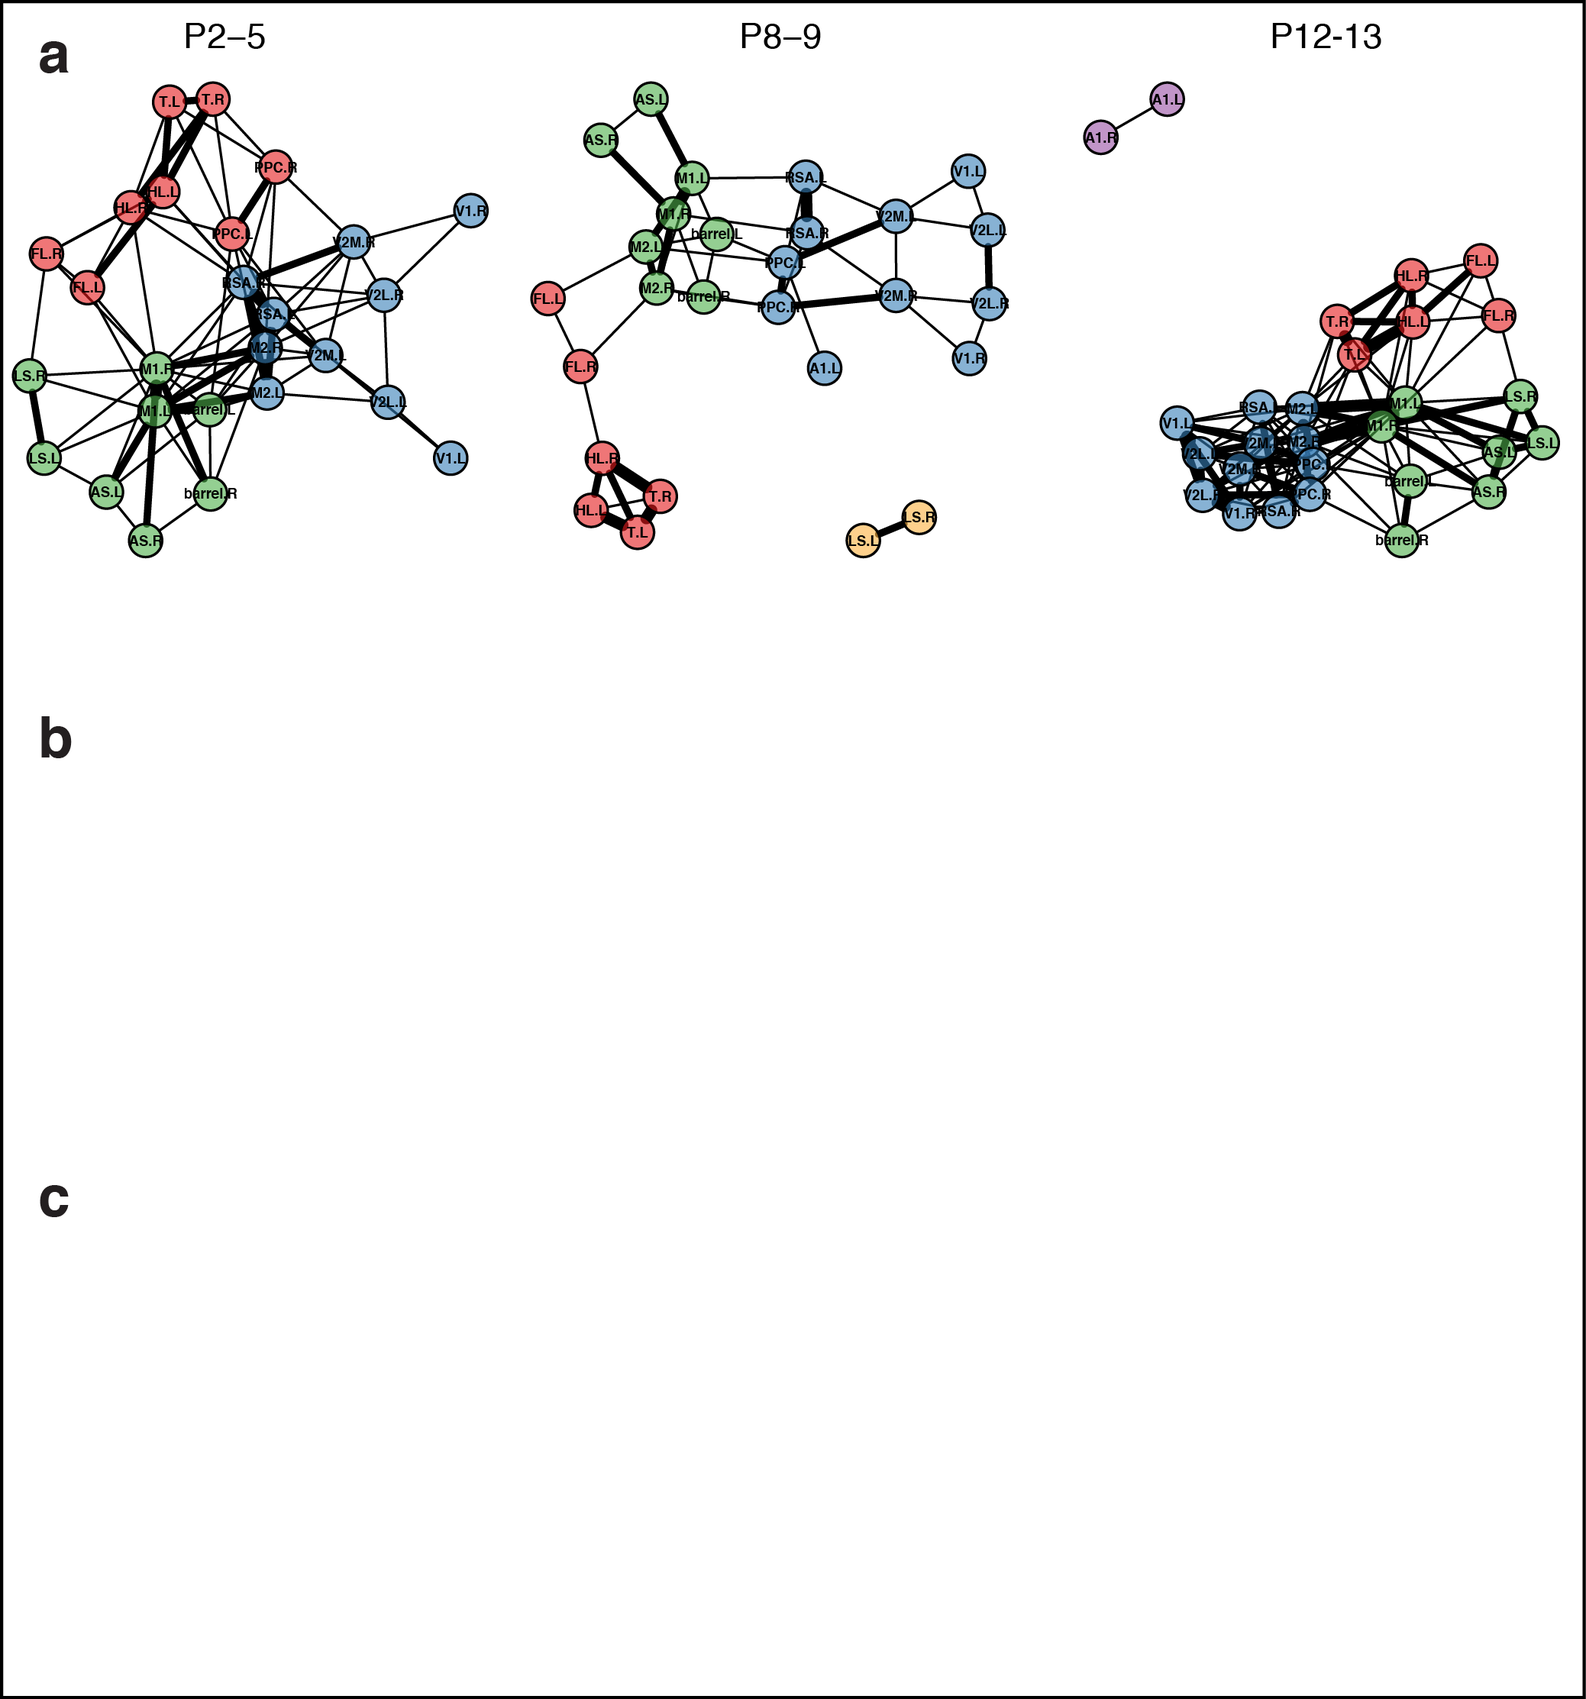
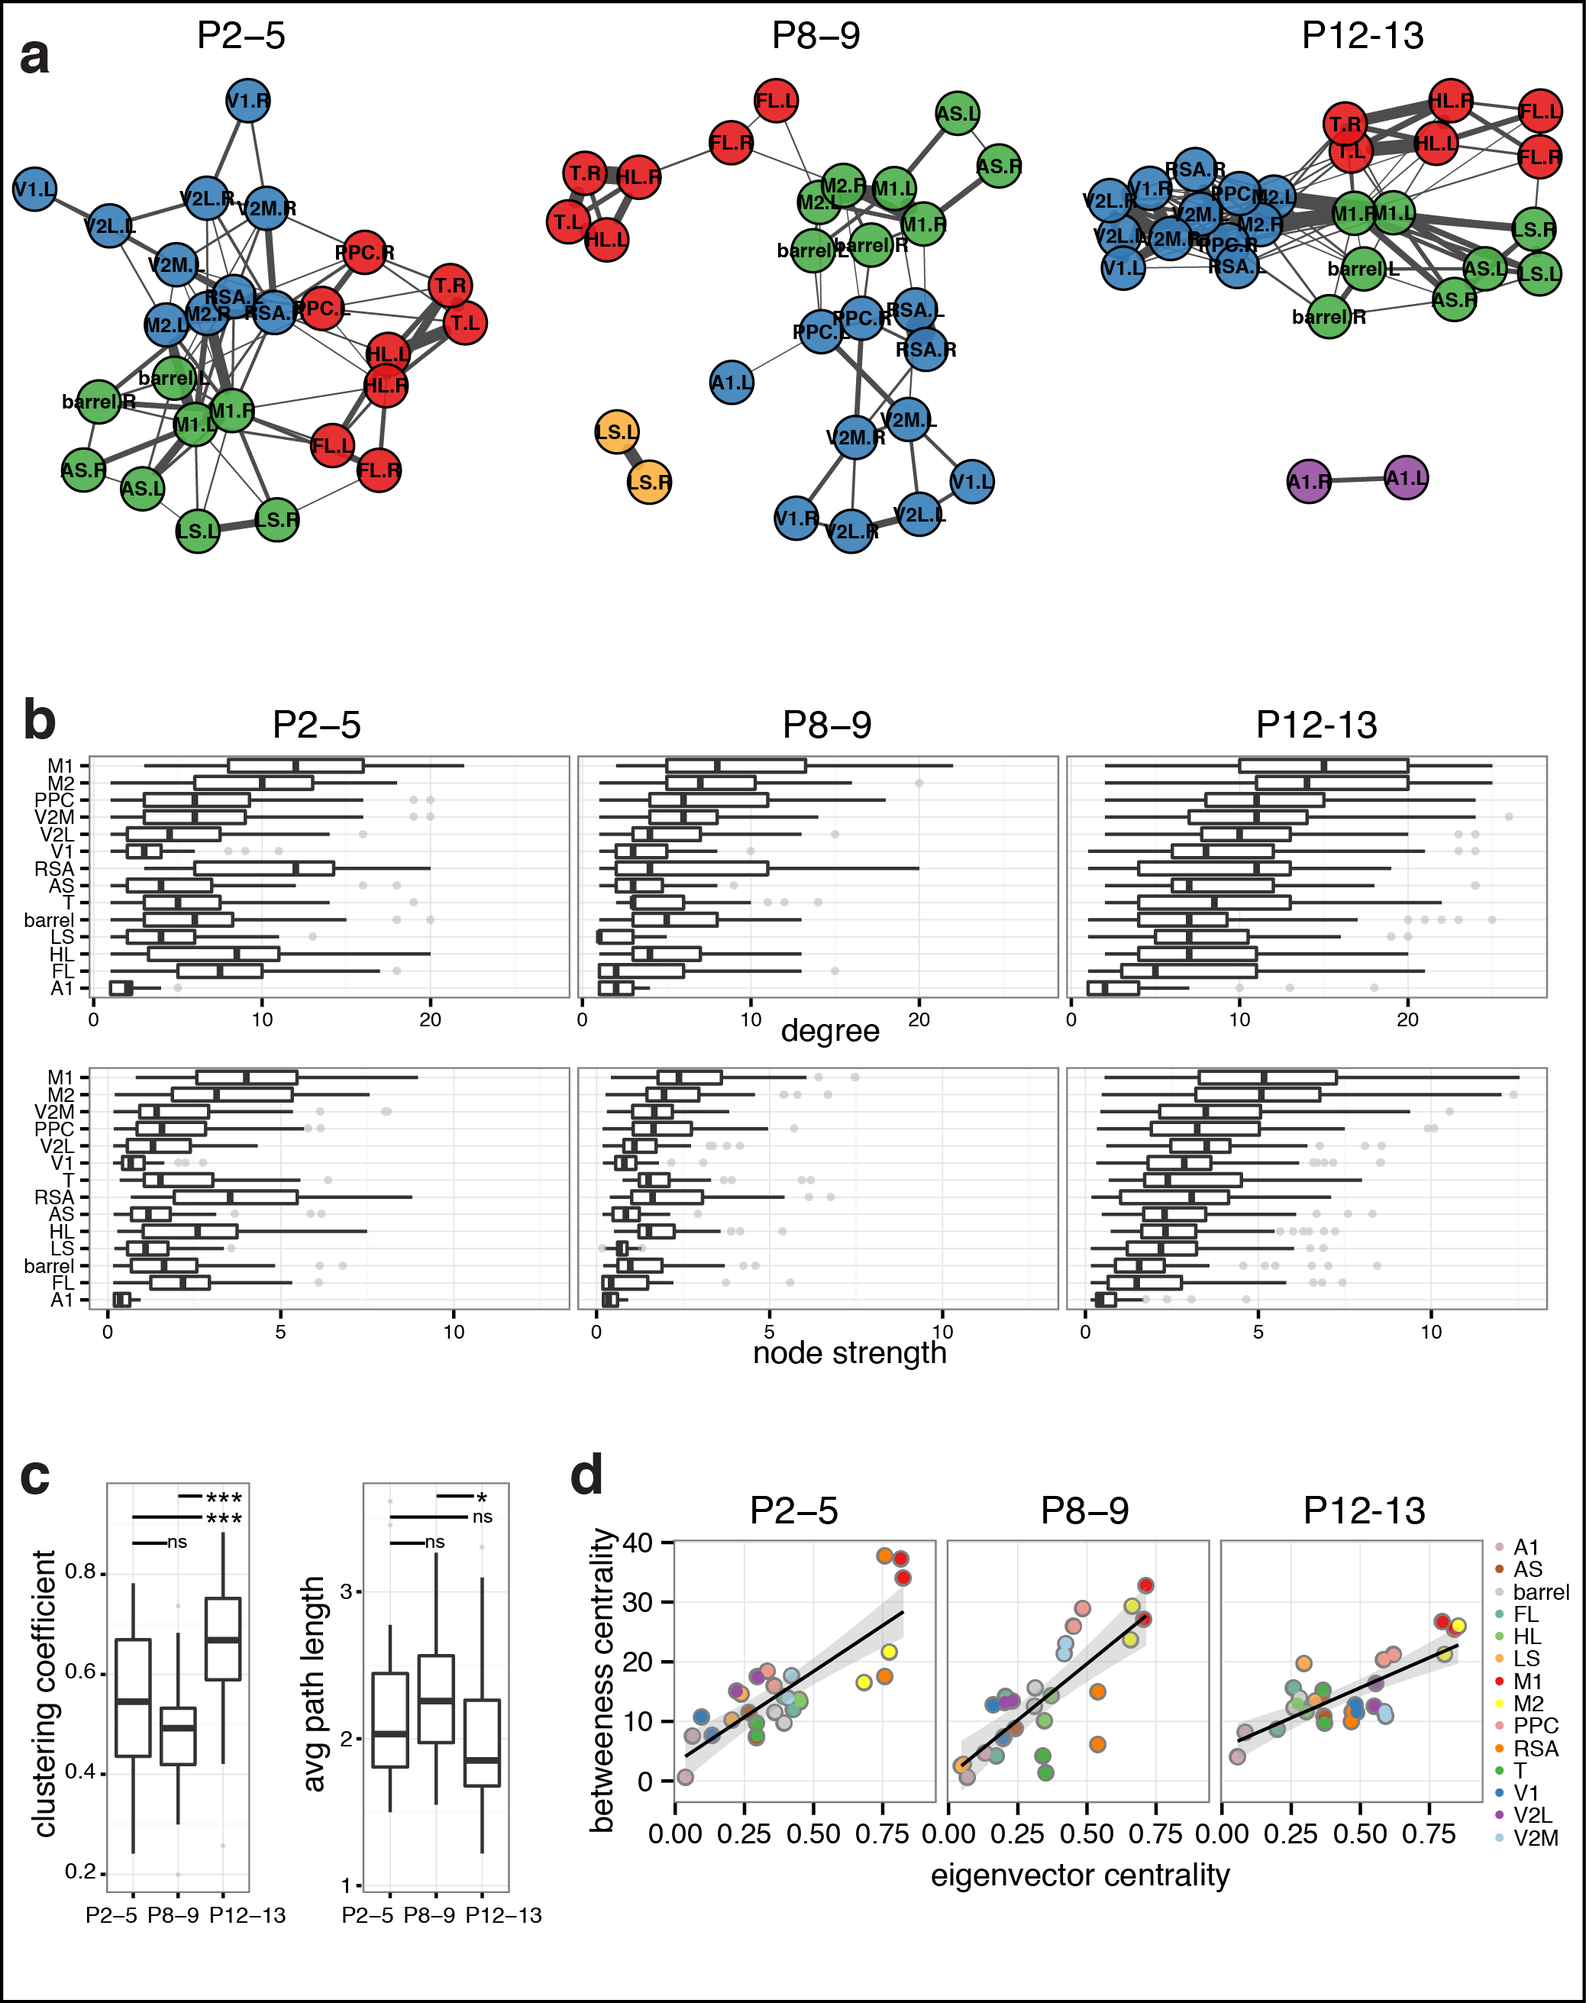
finish fig4,5

diff --git a/wholeBrain_main.md b/wholeBrain_main.md
@@ -41,14 +41,14 @@ The neocortex exhibits a characteristic modular organization across the cortical
 | Notes: Values are reported as medians (median absolute deviation) ||||
 [ **Table 1: Domain statistics**]
 
-## Domain activity dynamics varies among cortical regions
+## Dynamics of domain activity differs among cortical regions
 
 We examined how the spatiotemporal properties of cortical domains vary among different cortical regions by parcellating the brain into distinct anatomical boundaries using reference coordinates from a mouse line that expressed a tdtomato reporter in thalamocortical afferents at P7 (Fig. 1c,d) (Supplementary Fig.). Patterns of thalamocortical axon terminals can be used to map out areal boundaries of primary sensory cortical areas [wong riley 1979]. We aligned these parcellations to the Allen brain mouse atlas and then scaled the cortical area reference coordinates to match activity maps from each animal containing functional boundaries for barrel cortex and visual cortex where spontaneous retinal waves functionally map out developing visual areas [#Ackman:2012]  (Fig. 1c-e,g,i). 
 
 Cortical domain frequency among different regions scaled as a function of net cortical area and this association became stronger during the course of development (Fig. 2a). The most frequently active cortical regions at each age group when normalized to the amount of total amount of cortical space was the limb/trunk representations in somatosensory cortex (Fig. 1i, Supplementary Fig.). Generally, the frequency of activity was remarkably uniform across cortical areas at each age of development (Supplementary Fig) indicating a homeostatic regulation of global activity levels. The long tails in the domain duration and diameter distributions at P2-5 and P8-9 (Fig. 1f,h) were dominated by retinal wave driven cortical activity in V1 that lasted on the order of seconds to tens of seconds (Fig. 1e, Fig. 2b,c), but also by long lasting wave-like activations occurring in motor cortex (Fig. 1e, Fig. 2b,c). Indeed the cortical regions with the highest wave motion indices were V1 and M1 at P2-5, with V1 continuing to have the highest index at P8-9 and then dropping to mean motion idx level similar to other cortical regions at P12-13. The diameter of domain activation became larger among cortical regions during the second postnatal week including the S1-limb/body regions where at P13 a small subpopulation of events had mean diameters approaching that of the entire hemisphere and a higher wave motion index (Fig. 2d-f) (x% of all events, ~2/10min) [Supplementary Movie 3](../wholeBrain_blob/supplementaryMovie-P13gcamp6.mov) (Fig. 2d). These global population events synchronized activity across cortical areas and had centers of mass that were concentrated near the middle of each hemisphere in the S1-limb/body area.
 
 
-![ **Figure 2.** Spatiotemporal characteristics of cortical domains. **a** Domain frequency as function of cortical area size. **b** Scatterplots of domain diameter and duration. **c** Time projection maps of waves in motor cortex at P3, visual cortex at P5, and occipital-parietal-frontal cortex at P13. **d** Scatterplots of wave motion index as function of domain diameter. **e** Mean wave motion index over development.](figure2.png)
+![ **Figure 2.** Spatiotemporal properties of cortical domains. **a** Domain frequency as function of cortical area size. **b** Scatterplots of domain diameter and duration. **c** Time projection maps of waves in motor cortex at P3, visual cortex at P5, and occipital-parietal-frontal cortex at P13. **d** Scatterplots of wave motion index as function of domain diameter. **e** Mean wave motion index over development.](figure2.png)
 
 
 
@@ -56,12 +56,12 @@ Cortical domain frequency among different regions scaled as a function of net co
 
 Next we assessed mesoscale cortical activity patterns as a function of physiological state and motor behavior. It has previously been demonstrated that general anesthesia abolishes spontaneous retinal wave activity in visual system [#Ackman:2012]. We found that during anesthesia induction, there is rapid (<60 s) knock down of cortical activity (Supplementary Movie) (Supplementary Fig) at all ages. While in neonates, no cortical activity was found during general anesthesia, at P12-13 within ~10-20min after general induction we found altered spontaneous patterns, with short duration, large diameter population activities synchronizing multiple cortical regions. (Supplementary Movie)
 
-We monitored motor movements simultaneously with cortical activity during our fMOI recordings to gain insight into the relationship between motor behavior output to cerebral cortical dynamics during development. The highest levels of synchronized cortical domain activity occurred during periods of relatively sparse motor behavior whereas the lowest levels of synchronized cortical activity occurred during periods of increased motor movement (Fig. 3c-e). Variation in the strength of correlation between cortical areas and the motor movement signal depended on both brain region (p < 2.2e-16, anova) and age (p = 1.627e-05, anova) (Fig 3c-f). Interestingly, the first age group in which motor cortex exhibited signficant positive correlation with motor movements was at P12-13 (r=0.06±0.02, p-value = 0.001449, t-test) (Fig. 3f).
+We monitored motor movements simultaneously with cortical activity during our fMOI recordings to gain insight into the relationship between motor behavior output to cerebral cortical dynamics during development. The highest levels of synchronized cortical domain activity occurred during periods of relatively sparse motor behavior whereas the lowest levels of synchronized cortical activity occurred during periods of increased motor movement (Fig. 3c-e). Variation in the strength of correlation between cortical areas and the motor movement signal depended on both brain region (p < 2.2e-16, anova) and age (p = 1.627e-05, anova) (Fig 3c-f). Interestingly, the first age group in which motor cortex exhibited signficant positive correlation with motor movements was at P12-13 (r=0.06±0.02, p-value = 0.001449, t-test) (Fig. 3f). We hypothesized that just before eye opening around P11-P13 there will be a shift with significant zero lag or preceding correlation between motor cortex and the motor movement signals perhaps conincciding with teh begining fo ggoal directed behavior. Motor and state dependent behavior surprisingly complex, even in neonates.
 
 ![ **Figure 3**. Cortical domain activity is state dependent. **a** Experimental schematic. Red light illumination measured with a photodiode (PD) was used to monitor motor movements. **b** Cortical activity (active pixel fraction by hemisphere) and motor movement signal after onset of isoflurane anesthesia at 205 s. **c** Time projection maps (40 s segments) at times indicated in recording from **b**. **d** Cortical activity and coincident motor activity signals. Gray shading indicates active and quiet motor periods determined by the half-rise and decay times from peak in the low pass filtered motor signal. Active pixel fraction traces for motor (M1,M2), somatosensory (HL,FL,T; barrel), and visual (V1,V2) cortex shown at bottom of panel. Red links show synchronized motor movements and brain activity with different cortical regions. **e** Single frame domain masks for times indicated in **d**. **f** Pixel activation frequency maps during quiet and active motor periods. **g** Cross-correlation functions between cortical regions and motor movement signals. Notice the general weak correlation between motor movement and all cortical activity signals (r = , p = ) and the high positive correlation between motor movement and S1-limb/body signals (r = 0.3019, p < 2.2e-16).](figure3.png)
 
 
-## Cortical activity is mirrored between the hemispheres
+## Cortical activity comprises distinct subnetworks
 
 * Inter hemispheric functional connectivity, importance for autism, schizophrenia. Maybe an activity-dependent mechanism for commisural connectivity.
 * olavarria work, evidence for inter hemispheric activity dependence
@@ -69,20 +69,15 @@ We monitored motor movements simultaneously with cortical activity during our fM
 
 To understand the patterns and how they interact we first looked at correlation between the hemispheres. Cortical activity exhibited high temporal correlation between the hemispheres () . In additon this activity was highly correlated in the spatial dimension.  We found that activity was correlated in anterior-posterior and medial-lateral directions. It exhibited mirror symmetric and non-mirror symmetric patterns. For example epochs of time would exhibit high correlation in the medial-lateral dimension or in the rostral-caudal dimension. This strength of correlation temporally and spatially increased between the hemsipheres with a function of age.
 
-<!-- * Each hemisphere 'training' the other one in preparation for behaviorally relevant sensory-motor imitations '[[mirror_neurons]]' hypothesis? -->
-
-![ **Figure 4.** Cortical domain activity exhibits bilateral symmetry. **a** Examples of domains exhibiting spatially symmetric activations. Notice most timepoints contain a mixture of symmetric and asymmetric domain activations. **b** Cortical active fraction timecourses for both hemispheres. **c** Hemispheric domain centers of mass for coactive frames in a recording along medial-lateral (ML) and anterior-posterior (AP) extents. Bottom left panels show the periods indicated by black bars at expanded view. Pearson's correlation: ML, p = 1.1591e-28; AP, p = 7.0982e-07. **d** Hemispheric autocorrelation and cross-correlation functions for cortical activity at all and short time lags. Notice the peaks above gaussian distributed noise (blue traces).](figure4.png)
-
-
-
-## Developing cortical activity consists of distinct subnetworks
 
 We then calculated a matrix of pearsons correlation coefficients based on the pixel active fraction timecourses for each pair of parcellations. The resulting assocaition matrix was run through a hierarchical clustering algorithm to reveal functional modules of of activation. These functional modules typically consisted of 3 distinct subnetworks-- a frontal motor network, a posterior parietal network, a S1-body/limb network, and an auditory A1 network at P12.
 
 We found many similarities but some striking differences as a function of age.
 
+![ **Figure 4.** Functional architecture of developing neocortex. **a** Group averaged correlation matrices of domain activity among cortical areas. Colormap indicates Pearson's r correlation coefficient values. Dendrogram and node order from community structure detected with hierarchical clustering in the P12-13 group. **b** Map of cortical area associations for r > 0.15. Node colors represent cortical communities detected with clustering within each age group. Link width indicates the squared connection strength (r^2). Note both similarities in module membership and increased connection strengh with age.](figure4.png)
 
-![ **Figure 5.** Subnetworks in developing neocortex. **a** Correlation matrix of domain activity among cortical areas. Colormap indicates Pearson's r correlation coefficient values. **b** Graph of functional connections for r > 0.15. Community structure detected with hierarchical clustering are indicated in 4 colors. Notice that S1-limb/body regions form a distinct subgraph (red). **c** Map of cortical area associations for r > 0.1.](figure5.png)
+
+![ **Figure 5.** Dynamics of functional connectivity in developing neocortex. **a** Graph of functional connections for r > 0.15. Node colors represent cortical communities detected with clustering within each age group. **b** Boxplots of degree (number of links) and node strength (sum of connection weights) by cortical area. The distributions become increasingly ordered like the P12-13 group with age. **c** Boxplots of clustering coefficient and average path length by recording. **d** Scatterplots of mean network centrality scores by cortical area.](figure5.png)
 
 
 
@@ -171,29 +166,23 @@ Anesthetized Rx-Cre:GCaMP3 or SNAP25-GCaMP6 mice between postnatal day 2 to 13 (
 -->
 
 <!--Figure 4 metadata
-* binary mask snapshots, cropped from screen shots in [[2013-04-19_analysis]]
-    * Screen_Shot_2013-04-19_at_8.26.00_AM_fr1786.png
-    * Screen_Shot_2013-04-19_at_8.27.49_AM_fr2134.png
-    * Screen_Shot_2013-04-19_at_8.30.27_AM_fr759.png
-    * Screen_Shot_2013-04-19_at_8.30.51_AM_fr373.png
-    * Screen_Shot_2013-04-19_at_8.38.54_AM_fr177.png
-* Temporal correlation of activity between the hemispheres and preceding motor activation:  
-    * ![](../figures/Screen_Shot_2013-04-30_at_3.02.20_PM.png)
-* hemisphere active fraction traces: Screen_Shot_2013-04-08_at_8.47.19_AM.png
-* activefraction hemis AP and ML all: ![](../figures/Screen_Shot_2013-04-23_at_8.45.18_AM.png)  | 120518_07_connComponents_BkgndSubtr-60px_noWatershed-20130327-151022_d2ractiveFractionPixelLocaCorr20130423-094506.eps
-* activefraction hemis AP and ML segment: ![](../figures/Screen_Shot_2013-04-23_at_8.46.27_AM.png)
-* activefraction hemis AP and ML segment: ![](../figures/Screen_Shot_2013-04-23_at_8.51.55_AM.png)
-### Cortical activity correlated between the hemispheres and is periodic
-* hemi auto and xcorr:
-    * 2500fr lags: 120518_07_connComponents_BkgndSubtr-60px_noWatershed-20130327-151022activeFraction20130408-143100.eps
-    * 250fr lags:  120518_07_connComponents_BkgndSubtr-60px_noWatershed-20130327-151022activeFraction20130408-151655.eps
-    * 1500fr lags: 120518_07_2013-10-18_AllgoodactiveFraction20131023-145023.eps
+ * corr matrix: MeanCorrMatrix-age-2014-06-02.ai, (140602-113013-age.g-groupCorrMatrix.pdf, 140602-112947-dendr-ageP12-13.pdf)
+* 140808-093608-graph-squaredEdgeScale-auto.pdf
+~~* corr graph spatial layout: 140602-100049-P12-13_0.15.pdf ~~
 -->
 
 <!--Figure 5 metadata
-* corr matrix: MeanCorrMatrix-age-2014-06-02.ai, (140602-113013-age.g-groupCorrMatrix.pdf, 140602-112947-dendr-ageP12-13.pdf)
-* corr graph force layout: 140602-101610-P12-13_0.15.pdf
-* corr graph spatial layout: 140602-100049-P12-13_0.15.pdf
+* 140807-121720-graph-squaredEdgeScale.pdf
+~~* corr graph force layout: 140602-101610-P12-13_0.15.pdf~~
+
+~~140806-174912-modularity-boxplot.pdf~~
+~~140806-174917-diam-boxplot.pdf~~
+140806-174920-clusterCoeffGlobal-boxplot.pdf
+140806-174915-pathLength-boxplot.pdf
+
+* 140804-111208-eigCentr-scatterplot.pdf, r>0.15
+~~* 140804-075217-degree-hist.pdf, binwidth=2, r>0.15~~
+
 -->
 
 
@@ -219,4 +208,28 @@ Anesthetized Rx-Cre:GCaMP3 or SNAP25-GCaMP6 mice between postnatal day 2 to 13 (
 * supplementaryFig-montage.ai:  
     * 140509_22-fr484-735-20140729-102651-montage.png, 140509_22-fr484-735-20140729-102651-montage.tif
 
+* supplementaryFig-corticaltracesCorr.ai:  
+    * P5:  140328_10_20140420-111218_d2rActvRaster20140420-111804.eps, 3000fr
+    * P8:  140331_05_20140425-160657_d2rActvRaster20140425-161244.eps, 3000fr
+    * P13: 140509_22_20140522-074327_d2rActvRaster20140522-075627.eps, 3000fr
+
+
+* supplementaryFig-symmetry.ai: 
+    * binary mask snapshots, cropped from screen shots in [[2013-04-19_analysis]]
+        * Screen_Shot_2013-04-19_at_8.26.00_AM_fr1786.png
+        * Screen_Shot_2013-04-19_at_8.27.49_AM_fr2134.png
+        * Screen_Shot_2013-04-19_at_8.30.27_AM_fr759.png
+        * Screen_Shot_2013-04-19_at_8.30.51_AM_fr373.png
+        * Screen_Shot_2013-04-19_at_8.38.54_AM_fr177.png
+    * Temporal correlation of activity between the hemispheres and preceding motor activation:  
+        * ![](../figures/Screen_Shot_2013-04-30_at_3.02.20_PM.png)
+    * hemisphere active fraction traces: Screen_Shot_2013-04-08_at_8.47.19_AM.png
+    * activefraction hemis AP and ML all: ![](../figures/Screen_Shot_2013-04-23_at_8.45.18_AM.png)  | 120518_07_connComponents_BkgndSubtr-60px_noWatershed-20130327-151022_d2ractiveFractionPixelLocaCorr20130423-094506.eps
+    * activefraction hemis AP and ML segment: ![](../figures/Screen_Shot_2013-04-23_at_8.46.27_AM.png)
+    * activefraction hemis AP and ML segment: ![](../figures/Screen_Shot_2013-04-23_at_8.51.55_AM.png)
+    ### Cortical activity correlated between the hemispheres and is periodic
+    * hemi auto and xcorr:
+        * 2500fr lags: 120518_07_connComponents_BkgndSubtr-60px_noWatershed-20130327-151022activeFraction20130408-143100.eps
+        * 250fr lags:  120518_07_connComponents_BkgndSubtr-60px_noWatershed-20130327-151022activeFraction20130408-151655.eps
+        * 1500fr lags: 120518_07_2013-10-18_AllgoodactiveFraction20131023-145023.eps
 -->
